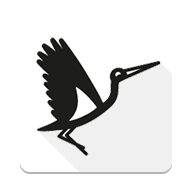
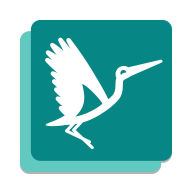
feat(images): add new iconography (#22)
* add grunt-git

* add sample git commands

* test grunt option for features

* add var feature

* build(grunt): add git tasks

* feat(images): add new iconography

Fixes https://github.com/flyve-mdm/flyve-mdm-web-ui/issues/9

diff --git a/Gruntfile.js b/Gruntfile.js
@@ -8,6 +8,10 @@
 module.exports = function wrapper(grunt) {
   var serveStatic = require('serve-static');
   var markdownlint = require("markdownlint");
+  //var remote_user = grunt.option('remote');
+  var commit_message = grunt.option('message');
+  var feature = grunt.option('feature');
+  var feature_branch = 'feature-' + feature;
   // Time how long tasks take. Can help when optimizing build times
   require('time-grunt')(grunt);
   // Automatically load required Grunt tasks
@@ -18,6 +22,7 @@ module.exports = function wrapper(grunt) {
   // Configurable paths for the application
   var bower = require('./bower.json');
   var appConfig = {
+
     version: bower.version,
     app: bower.appPath || 'app',
     dist: 'dist'
@@ -453,6 +458,68 @@ module.exports = function wrapper(grunt) {
         dotfiles: true
       },
       src: ['**']
+    },
+
+    /**
+    git checkout develop
+    git merge --squash feature-*
+    git commit -m "feat(scope): add *"
+    git push origin develop
+    git checkout master
+    git merge develop
+    git push origin master
+    standard-version --sign --message 'chore(release): bump to %s and new changelog'
+    git push --follow-tags origin master
+    conventional-github-releaser -p angular
+    grunt build
+    grunt gh-pages
+    git checkout develop
+    git merge master
+    git branch -D feature-*
+     */
+    gitcheckout: {
+      develop: {
+        options: {
+          branch: 'develop'
+        }
+      },
+      master: {
+        options: {
+          branch: 'master'
+        }
+      }
+    },
+    gitmerge: {
+      feature: {
+        options: {
+          branch: feature_branch,
+          squash: true,
+          message: commit_message,
+          commit: true
+        }
+      },
+      develop: {
+        options: {
+          branch: 'develop'
+        }
+      }
+    },
+    gitpush: {
+      feature: {
+        options: {
+          branch: feature_branch
+        }
+      },
+      develop: {
+        options: {
+          branch: 'develop'
+        }
+      },
+      master: {
+        options: {
+          branch: 'master'
+        }
+      }
     }
   });
   grunt.loadNpmTasks('grunt-ng-constant');
@@ -461,6 +528,7 @@ module.exports = function wrapper(grunt) {
   grunt.loadNpmTasks('grunt-sass-lint');
   grunt.loadNpmTasks('grunt-karma');
   grunt.loadNpmTasks('grunt-gh-pages');
+  grunt.loadNpmTasks('grunt-git');
   grunt.registerMultiTask("markdownlint", function task() {
     var done = this.async();
     markdownlint(
@@ -490,6 +558,14 @@ module.exports = function wrapper(grunt) {
     grunt.log.warn('The `server` task has been deprecated. Use `grunt serve` to start a server.');
     grunt.task.run(['serve:' + target]);
   });
+  grunt.registerTask('feature', [
+    'gitcheckout:develop',
+    'gitmerge:feature',
+    'gitpush:develop',
+    'gitcheckout:master',
+    'gitmerge:develop',
+    'gitpush:master'
+  ]);
   grunt.registerTask('test', [
     'clean:server',
     'wiredep',
